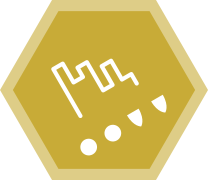
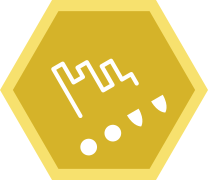
visual

Changed region(s): [[0.0, 0.0, 1.0, 1.0]]

diff --git a/games/strategy/game.js b/games/strategy/game.js
@@ -89,7 +89,7 @@ board.new_piece_physical_shape 		  = 'ellipse';
 hex_tiles = [];
 for(n=0; n<10; n++) hex_tiles.push(board.add_piece(['hex_forest.png']));
 for(n=0; n<4;  n++) hex_tiles.push(board.add_piece(['hex_city.png']));
-for(n=0; n<8;  n++) hex_tiles.push(board.add_piece(['hex_water.png']));
+for(n=0; n<8;  n++) hex_tiles.push(board.add_piece(['hex_desert.png']));
 for(n=0; n<10; n++) hex_tiles.push(board.add_piece(['hex_plains.png']));
 for(n=0; n<5;  n++) hex_tiles.push(board.add_piece(['hex_mountains.png']));
 
@@ -138,7 +138,7 @@ for (n=0; n<6; n++) {
   board.new_piece_owners = [n+1];
   
   // add move pieces
-  board.new_piece_scale = 0.9;
+  board.new_piece_scale = 0.8;
   a = [];
   a.push(board.add_piece(['move_hidden.png', 'attack_3.png'], ['attack_3.png', 'attack_3.png']));
   a.push(board.add_piece(['move_hidden.png', 'attack_2.png'], ['attack_2.png', 'attack_2.png']));
